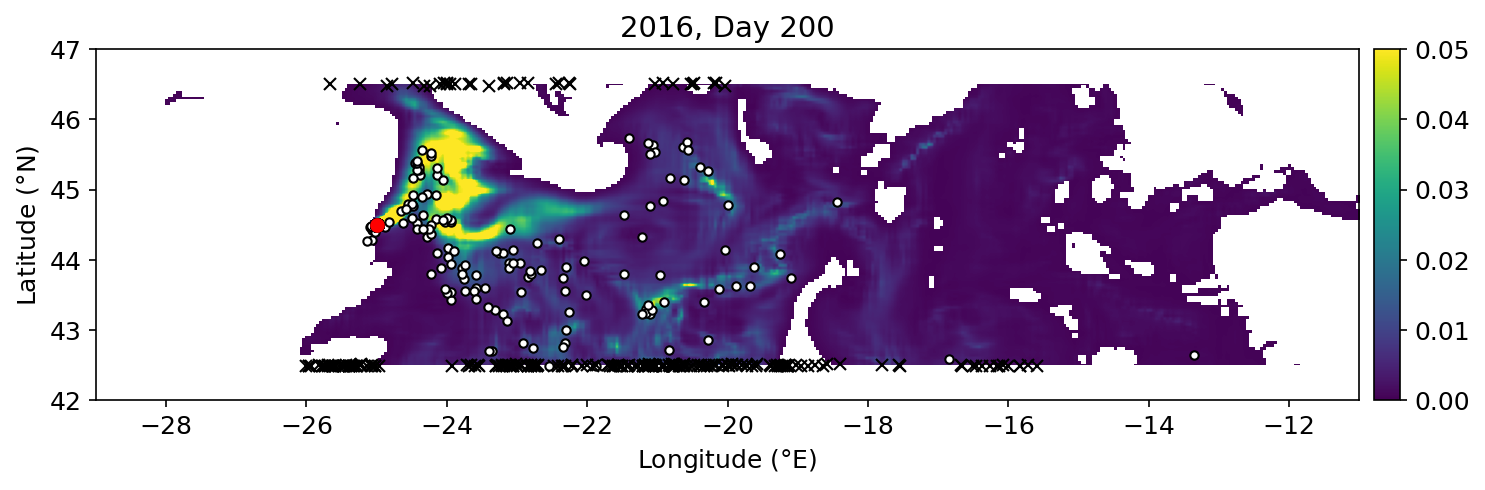
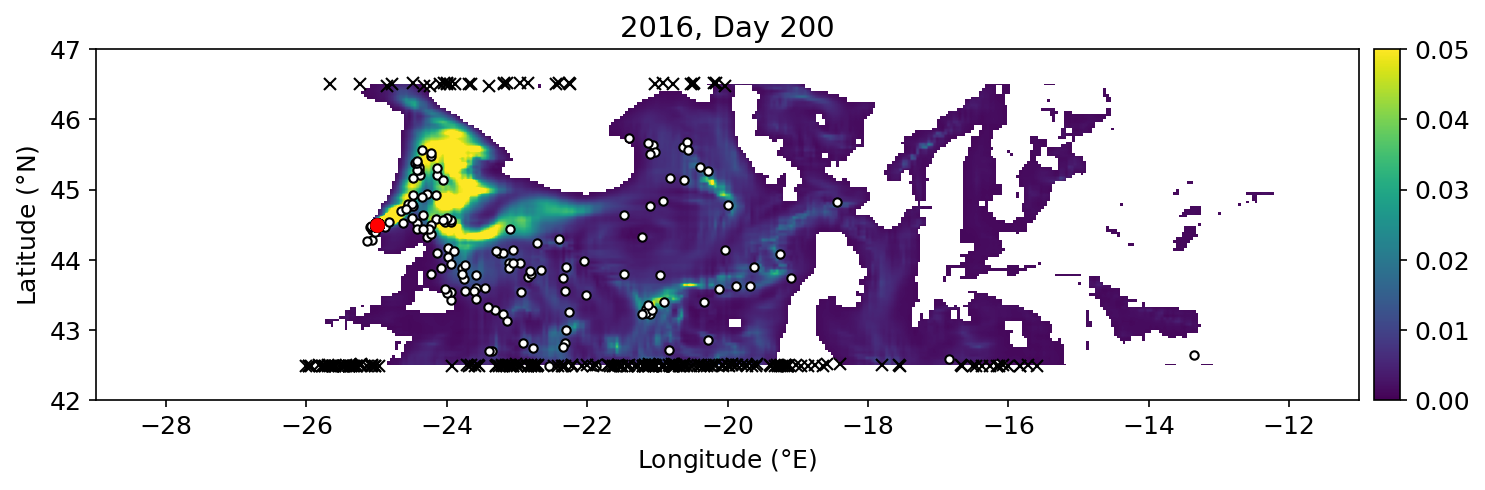
Minor changes

diff --git a/plotting/plot_video_fine.py b/plotting/plot_video_fine.py
@@ -16,7 +16,7 @@ import time
 
 # Handle arguments
 if len(sys.argv) != 9:
-    print("Usage: python combined_plot_video.py <year> <ndays> <dx> <dy> <dt> <nperday> <offset>")
+    print("Usage: python combined_plot_video.py <year> <ndays> <dx> <dy> <dt> <nperday> <offset> <mode>")
     sys.exit(1)
 
 year = int(sys.argv[1])
@@ -35,7 +35,7 @@ assert mode in {"rw", "pde", "both"}, "mode must be one of: density, walkers, bo
 
 fps = 10
 vmin, vmax = 0, 0.05
-matrix_cutoff = 0.0004
+matrix_cutoff = 0.001
 plot_paths = (mode == "rw")  # Only show red path lines in 'walkers' mode
 density_resolution = f'{dx}x{dy}_{dt}'
 output_filename = f'{year}_{days}d_{density_resolution}_combined.mp4'

diff --git a/plotting/plot_image_fine.py b/plotting/plot_image_fine.py
@@ -32,7 +32,7 @@ walk_opacity = 10/frame  # Opacity of path lines
 
 # === Setup ===
 density_resolution = f'{dx}x{dy}_{dt}'
-matrix_cutoff = 0.0004
+matrix_cutoff = 0.001
 vmin, vmax = 0, 0.05
 
 # === Load data ===
